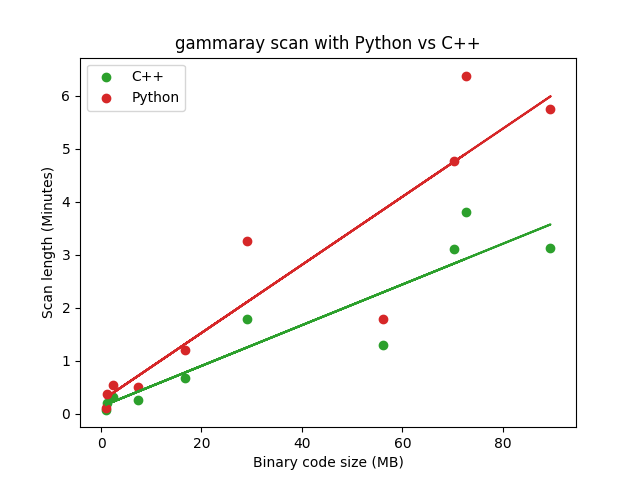
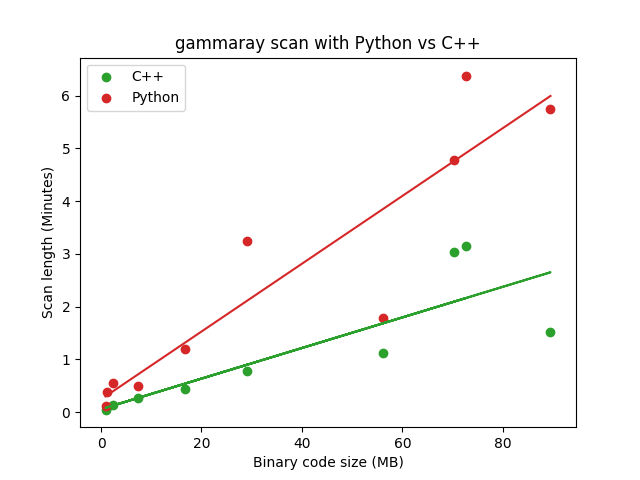
update proposal.md after more speed improvements

diff --git a/dataflow-proposal/proposal.md b/dataflow-proposal/proposal.md
@@ -67,13 +67,11 @@ There is also the penultimate concern that this extension is C++, and we all kno
 Results
 -------------------
 
-There is roughly a 50% difference in scan times when comparing the existing code to the C++ extension. That is to say, for any given scan, it will complete in half the time it did before.
+There is roughly a 80% difference in scan times when comparing the existing code to the C++ extension. That is to say, the new branch completes 3 scans in the time master would take to complete 1 scan.
 
 I have verified functionality of the C++ extension and that it provides the same results as the original Python. Unit tests pass, and gammaray produces the same findings with both branches. 
 
-`01-0094` and `01-0075`         |  Full Gammaray Scan
-:-------------------------:|:-------------------------:
-![search checks only](https://bitbucket.org/datatheorem/strongarm-ios/raw/c-dataflow/dataflow-proposal/searches-only.png)  |  ![full scan](https://bitbucket.org/datatheorem/strongarm-ios/raw/c-dataflow/dataflow-proposal/full-scan.png)
+![gammaray scan comparison](https://bitbucket.org/datatheorem/strongarm-ios/raw/c-dataflow/dataflow-proposal/full-scan.png)
 
 I have already profiled the memory usage of using this branch with many apps in a single Python process. I have identified and fixed memory leaks that arose from retaining references to Python objects when they went out of scope of C++, and no memory leaks remain. When multiple apps are scanned, memory usage does not grow.
 
